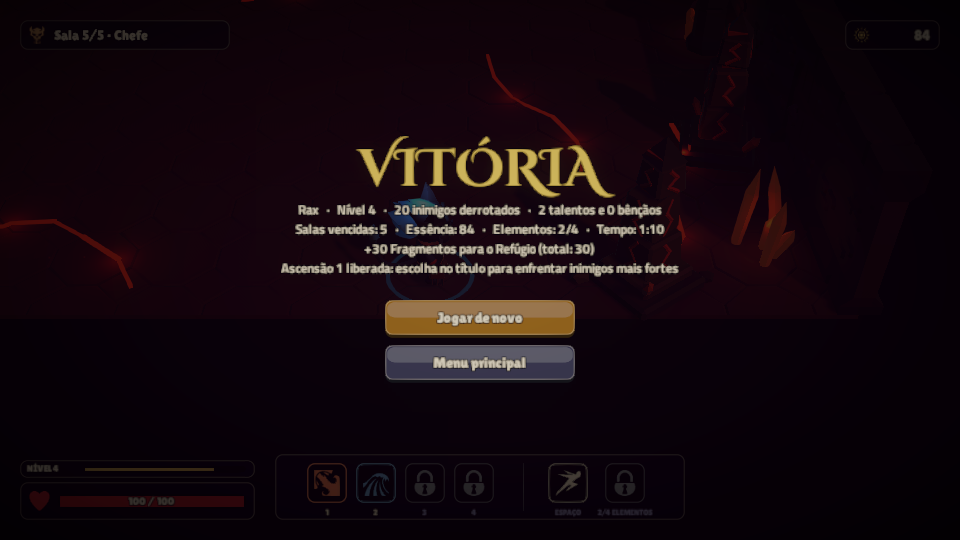
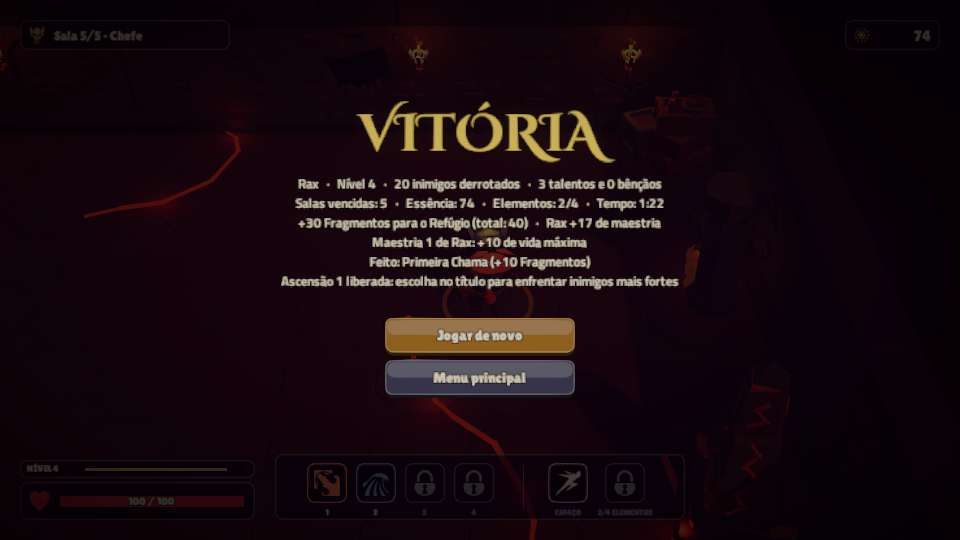
Tela de resultado: título mais alto e botões mais baixos, para caber maestria, Feitos e Ascensão sem encostar

diff --git a/Assets/Game/UI/Hud.cs b/Assets/Game/UI/Hud.cs
@@ -761,14 +761,14 @@ namespace Quintessence.UI
             resultPanel.gameObject.SetActive(true);
             foreach (Transform child in resultPanel) Destroy(child.gameObject);
             var center = new Vector2(0.5f, 0.5f);
-            var title = UiKit.Text(UiKit.Rect("Title", resultPanel, center, new Vector2(0, 200), new Vector2(1400, 120)),
+            var title = UiKit.Text(UiKit.Rect("Title", resultPanel, center, new Vector2(0, 270), new Vector2(1400, 120)),
                 victory ? "VITÓRIA" : "VOCÊ CAIU", 104, victory ? new Color(0.9f, 0.76f, 0.42f) : new Color(0.78f, 0.3f, 0.28f));
             title.font = GameFonts.Title;
-            var statsText = UiKit.Text(UiKit.Rect("Stats", resultPanel, center, new Vector2(0, 62), new Vector2(1500, 180)), stats, 28, UiKit.Cream, TextAnchor.MiddleCenter, false);
+            var statsText = UiKit.Text(UiKit.Rect("Stats", resultPanel, center, new Vector2(0, 75), new Vector2(1500, 230)), stats, 28, UiKit.Cream, TextAnchor.MiddleCenter, false);
             // com subida de maestria e Ascensao nova o texto passa de cinco linhas: encolhe em vez de vazar
             statsText.resizeTextForBestFit = true; statsText.resizeTextMinSize = 18; statsText.resizeTextMaxSize = 28;
-            UiKit.Focus(UiKit.Button(resultPanel, "Jogar de novo", center, new Vector2(0, -95), new Vector2(380, 70), UiKit.Primary, again).gameObject);
-            UiKit.Button(resultPanel, "Menu principal", center, new Vector2(0, -185), new Vector2(380, 70), UiKit.Secondary, menu);
+            UiKit.Focus(UiKit.Button(resultPanel, "Jogar de novo", center, new Vector2(0, -130), new Vector2(380, 70), UiKit.Primary, again).gameObject);
+            UiKit.Button(resultPanel, "Menu principal", center, new Vector2(0, -215), new Vector2(380, 70), UiKit.Secondary, menu);
         }
     }
 }
